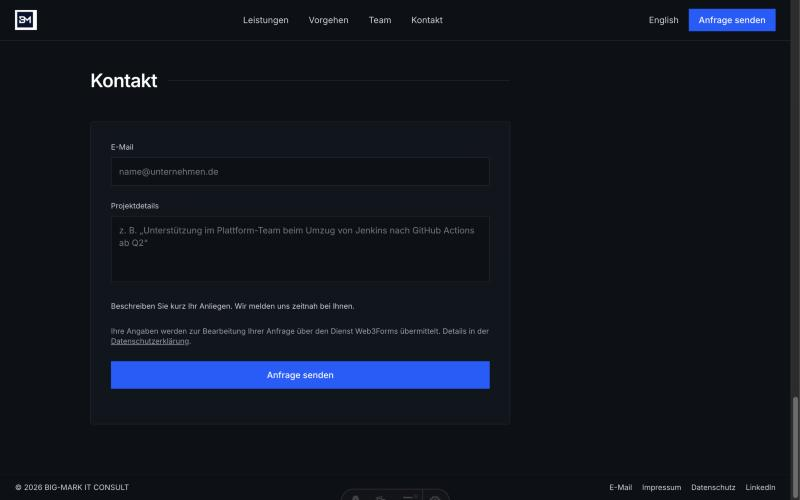
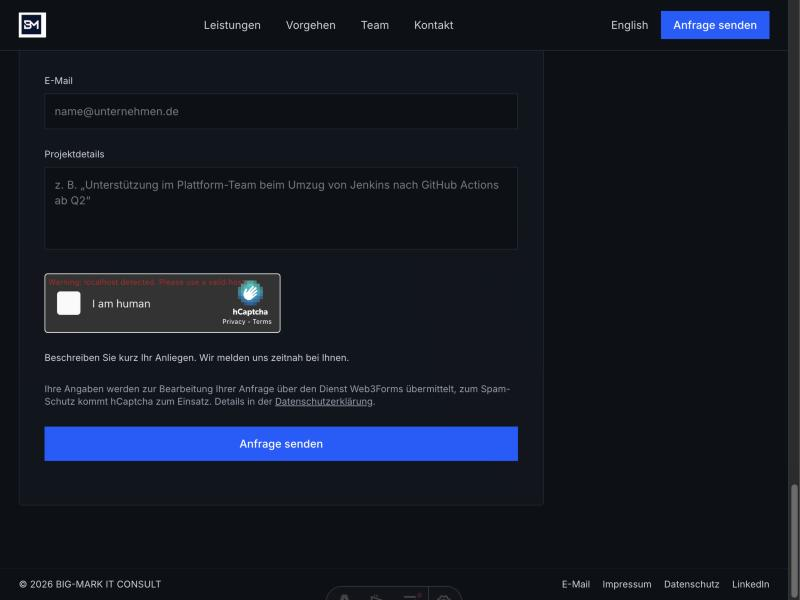
Add hCaptcha to the contact form
Uses the Web3Forms hCaptcha integration, adds a client-side check, form
notice, and privacy policy text. Refreshes the contact screenshot.

diff --git a/src/config/site.ts b/src/config/site.ts
@@ -63,7 +63,7 @@ export const translations = {
       impressum: 'Impressum',
       privacy: 'Datenschutz',
       privacyNotice:
-        'Ihre Angaben werden zur Bearbeitung Ihrer Anfrage über den Dienst Web3Forms übermittelt. Details in der',
+        'Ihre Angaben werden zur Bearbeitung Ihrer Anfrage über den Dienst Web3Forms übermittelt, zum Spam-Schutz kommt hCaptcha zum Einsatz. Details in der',
       privacyLink: 'Datenschutzerklärung',
       formSubject: 'Anfrage über BIG-MARK IT Consult',
     },
@@ -83,6 +83,7 @@ export const translations = {
       messagePlaceholder:
         'z. B. „Unterstützung im Plattform-Team beim Umzug von Jenkins nach GitHub Actions ab Q2“',
       submitLabel: 'Anfrage senden',
+      statusCaptcha: 'Bitte bestätigen Sie zuerst das Captcha.',
       statusSending: 'Wird gesendet…',
       statusSuccess: 'Danke, Ihre Nachricht ist angekommen. Wir melden uns bald.',
       statusError: 'Das hat leider nicht geklappt. Bitte schreiben Sie uns direkt an hello@big-mark.de.',
@@ -208,7 +209,7 @@ export const translations = {
       impressum: 'Impressum',
       privacy: 'Datenschutz',
       privacyNotice:
-        'Your details are sent via the Web3Forms service to process your request. More in our',
+        'Your details are sent via the Web3Forms service to process your request; hCaptcha is used for spam protection. More in our',
       privacyLink: 'privacy policy (German)',
       formSubject: 'Inquiry via BIG-MARK IT Consult',
     },
@@ -228,6 +229,7 @@ export const translations = {
       messagePlaceholder:
         'e.g. “Hands-on support for our platform team migrating Jenkins to GitHub Actions starting Q2”',
       submitLabel: 'Send Inquiry',
+      statusCaptcha: 'Please complete the captcha first.',
       statusSending: 'Sending…',
       statusSuccess: 'Thanks, your message has arrived. We’ll be in touch soon.',
       statusError: 'Something went wrong. Please email us directly at hello@big-mark.de.',
